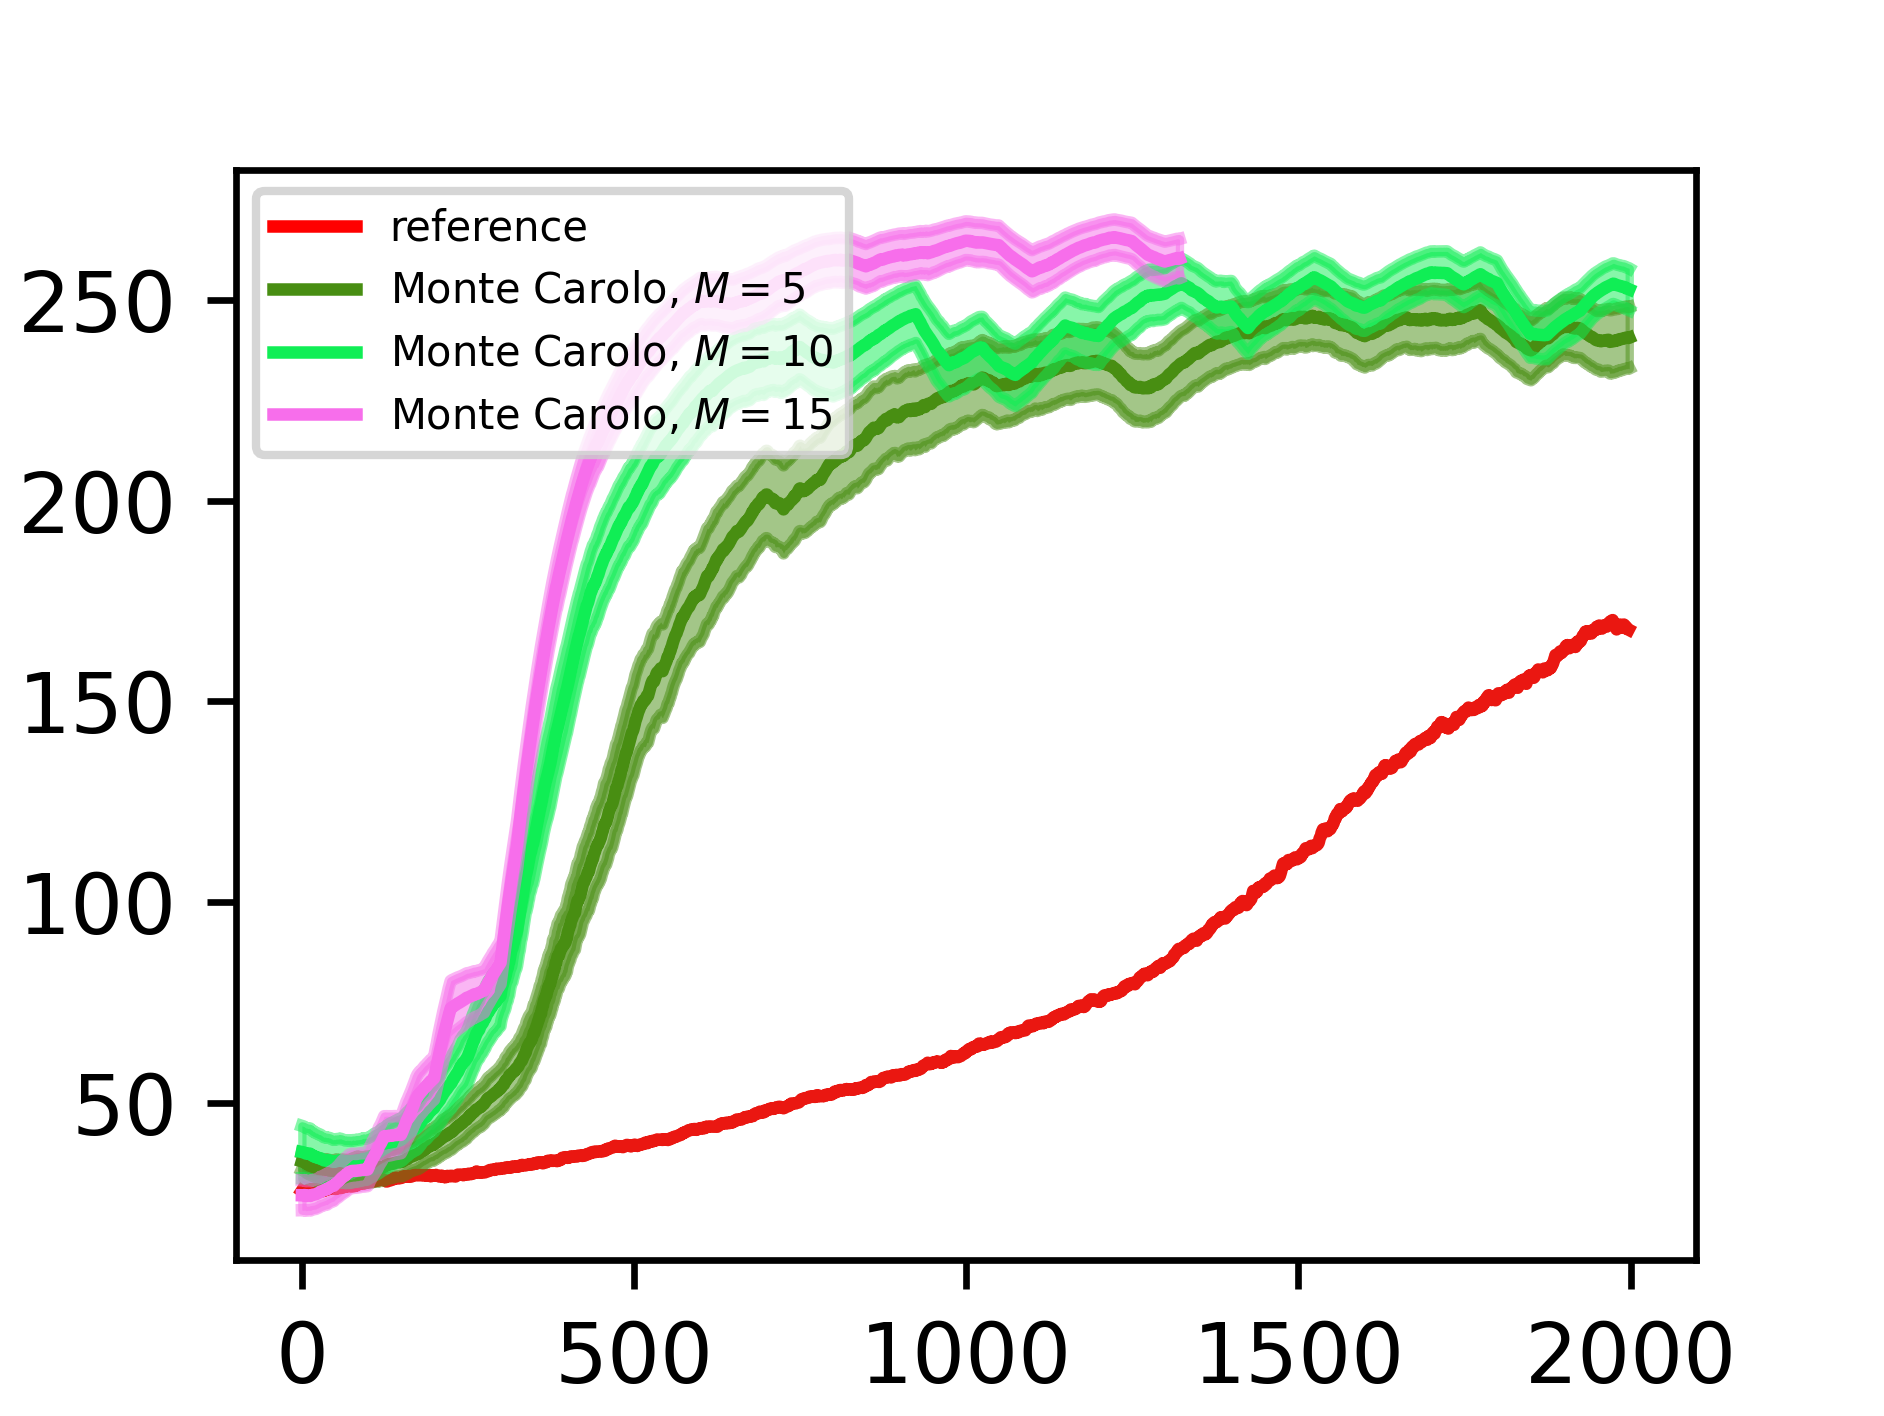
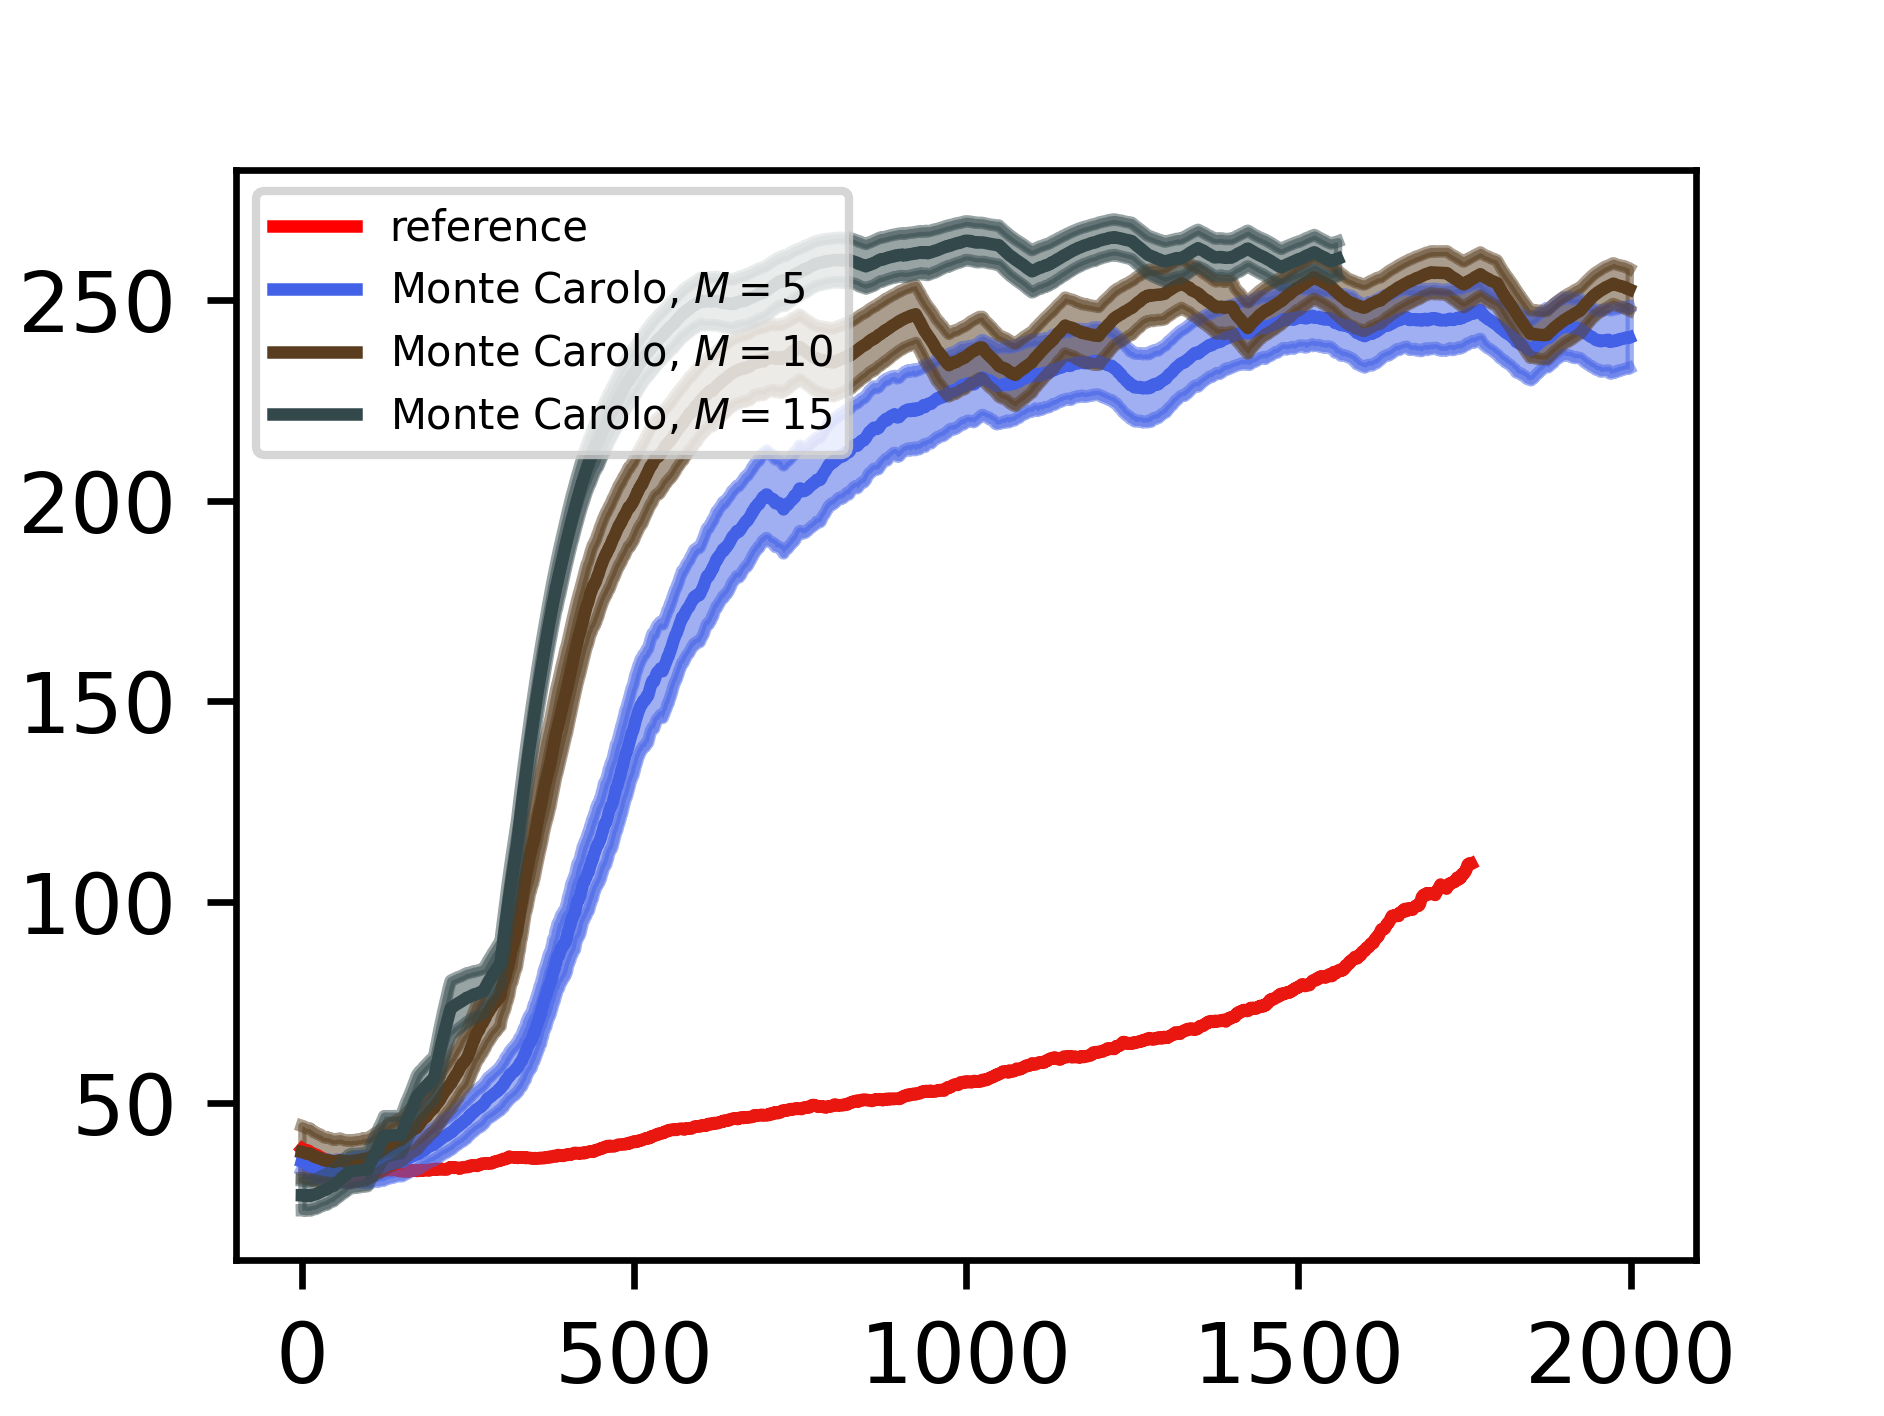
new

diff --git a/plot_test.py b/plot_test.py
@@ -43,15 +43,14 @@ def read_rewards(filename, samples=2000, episodes=10):
 
 def read_rewards_multi(filename, samples, episodes, runs):
     rewards = []
-    # if isinstance(runs, list):
-    #     start = runs[0]
-    #     end = runs[1]
-    #     iters = range(start, end)
-    # else:
-    #     iters = 
-    for run in range(runs):
-        reward = read_rewards(filename+"_run{}.txt".format(run), samples,episodes)
+    if isinstance(runs, int):
+        for run in range(runs):
+            reward = read_rewards(filename+"_run{}.txt".format(run), samples,episodes)
+            rewards.append(smooth(reward))
+    else:
+        reward = read_rewards(filename+"_run{}.txt".format(runs), samples,episodes)
         rewards.append(smooth(reward))
+    
     rewards = np.array(rewards)
     return np.mean(rewards, axis=0), np.std(rewards, axis=0)
 
@@ -99,9 +98,9 @@ def run_mc_plot():
         g = random.uniform(0, 1)
         b = random.uniform(0, 1)
         colors[i] = (r,g,b)
-    steps = 300
-    subfolder = 'new2'
-    gradient = ''
+    steps = 100
+    subfolder = 'new1_100'
+    gradient = 'sum'
     
     for name, ms_sep in zip(['1','2'],[ms[2:5],ms[5:8]]):
         fig, ax = plt.subplots(figsize=(1.57 * 2, 1.18 * 2), dpi=600)
@@ -144,7 +143,7 @@ if __name__ =="__main__":
     # sys.exit(0)
 
     subfolder = "test/nosingle_kl"
-    steps = 100
+    steps = 300
     fig, ax = plt.subplots(figsize=(1.57 * 2, 1.18 * 2), dpi=600)
     for e in [10]:
         epic_mean, epic_std = read_rewards_multi(filename='./results/{}/multimodal/EPIC_CartPole-v0_vpg_s2000_n{}_every25_size32_c0.5_tau0.5_goal10.0_steps{}_mass5.0'.format(subfolder,e, steps),
@@ -159,10 +158,23 @@ if __name__ =="__main__":
         ax.plot(x_vals, epic_mean-epic_std,  alpha=0.1)
         ax.fill_between(x_vals, y1=epic_mean-epic_std, y2=epic_mean+epic_std, alpha=0.1)
     
+    subfolder = "test/nosingle_kl/prior"
+    epic_mean, epic_std = read_rewards_multi(filename='./results/{}/multimodal/EPIC_CartPole-v0_vpg_s2000_n{}_every25_size32_c0.5_tau0.5_goal10.0_steps{}_mass5.0'.format(subfolder,e, steps),
+                                                samples=2000,
+                                                episodes=e,
+                                                runs=1)
+    
+    
+    x_vals = list(range(len(epic_mean)))
+    ax.plot(x_vals, epic_mean, label = "kl, no single, using prior", color='green')
+    ax.plot(x_vals, epic_mean+epic_std,  alpha=0.1)
+    ax.plot(x_vals, epic_mean-epic_std,  alpha=0.1)
+    ax.fill_between(x_vals, y1=epic_mean-epic_std, y2=epic_mean+epic_std, alpha=0.1)
+    
     epic_mean, epic_std = read_rewards_multi(filename='./results/test/single/multimodal/EPIC_CartPole-v0_vpg_s2000_n10_every25_size32_c0.5_tau0.5_goal10.0_steps{}_mass5.0'.format(steps),
                                                 samples=2000,
                                                 episodes = 10,
-                                                runs=1)
+                                                runs='1')
     
     
     x_vals = list(range(len(epic_mean)))
@@ -176,7 +188,7 @@ if __name__ =="__main__":
                                              samples=2000,
                                              episodes=10,
                                              runs=1)
-    
+    x_vals = list(range(len(maml_mean)))
     plt.plot(x_vals, maml_mean, color="#2980B9", label='maml')
     plt.plot(x_vals, maml_mean+maml_std, color="#2980B9", alpha=0.1)
     plt.plot(x_vals, maml_mean-maml_std, color="#2980B9", alpha=0.1)
@@ -186,7 +198,7 @@ if __name__ =="__main__":
     epic_mean, epic_std = read_rewards_multi(filename='./results/{}/multimodal/EPIC_CartPole-v0_vpg_s2000_n10_every25_size32_c0.5_tau0.5_goal10.0_steps{}_mass5.0'.format(subfolder,steps),
                                                 samples=2000,
                                                 episodes = 10,
-                                                runs=1)
+                                                runs='0')
     
     
     x_vals = list(range(len(epic_mean)))
@@ -200,5 +212,5 @@ if __name__ =="__main__":
     # plt.yticks([-15, -10, -5, 0])
     # plt.tick_params(labelbottom=False, labelleft=False)
     # plt.show()
-    subfolder = 'test/nosingle_kl'
+    subfolder = 'test/nosingle_kl/prior'
     plt.savefig('./results/{}/multimodal/step{}_epic25_episodes_nosingle_single_mc_compare'.format(subfolder, steps))
